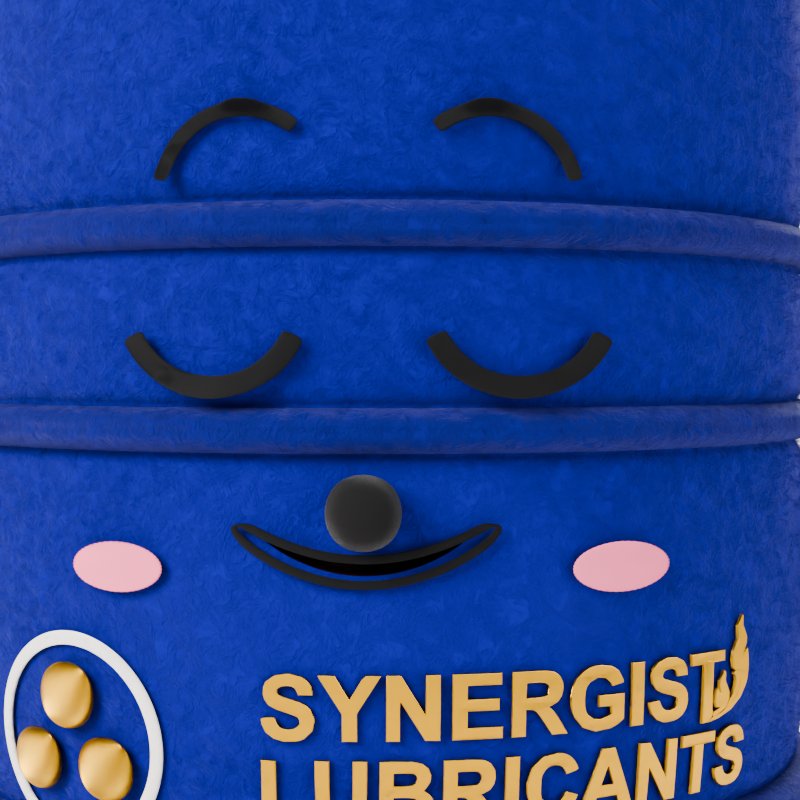
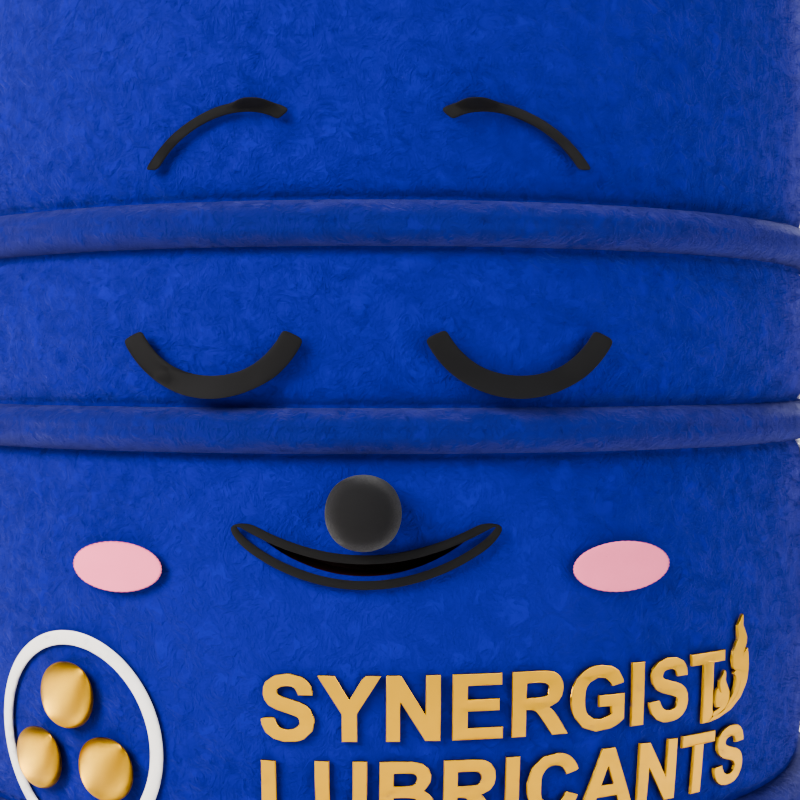
Sticker-ready poses and face fixes
Rig: place_ik_hand() puts a hand anywhere in world space through IK with
its rest orientation turned about a hand axis; new per-finger sideways
bend (side_<finger>.L/R, about the palm normal). Thumbs-up is a clear fist
with an upright thumb held out at shoulder height (hand 1.35x); OK sign has
the palm to camera and index/thumb bending toward each other so the circle
faces the camera; the resting hand comes out from behind the body; jump
uses short, high brows. Sticker camera: near-front (~10 deg toward the
waving side), whole character in frame.
Face: brow_short control; sad brows flatten into an inner-up tilt; big
smile corners clear the eye outlines; Big laugh uses short high brows.
Expressions sheet + per-face PNGs and pose renders regenerated.

Changed region(s): [[0.5312, 0.125, 0.75, 0.25], [0.1875, 0.125, 0.375, 0.25]]

diff --git a/scripts/05_rig.py b/scripts/05_rig.py
@@ -546,13 +546,19 @@ def add_constraints_and_drivers(rig):
                        [{'name': f'curl_{finger}.{side}', 'type': 'SINGLE_PROP',
                          'targets': [{'id_type': 'OBJECT', 'id': rig, 'data_path': f'["curl_{finger}.{side}"]'}]}],
                        target_object=rig)
-            # Spread driver only on first bone
-            if finger != "thumb":
-                add_driver(bone1, "rotation_euler", 2,
-                           f'spread.{side} * radians({spread_angle})',
-                           [{'name': f'spread.{side}', 'type': 'SINGLE_PROP',
-                             'targets': [{'id_type': 'OBJECT', 'id': rig, 'data_path': f'["spread.{side}"]'}]}],
-                           target_object=rig)
+            # Spread + sideways bend on the first bone, sideways bend on the second.
+            # Bone Z = palm normal: negative side bends the finger toward the thumb (+X of the hand).
+            rig[f"side_{finger}.{side}"] = 0.0
+            rig.id_properties_ui(f"side_{finger}.{side}").update(min=-1.0, max=1.0, soft_min=-1.0, soft_max=1.0)
+            side_var = {'name': f'side_{finger}.{side}', 'type': 'SINGLE_PROP',
+                        'targets': [{'id_type': 'OBJECT', 'id': rig, 'data_path': f'["side_{finger}.{side}"]'}]}
+            spread_var = {'name': f'spread.{side}', 'type': 'SINGLE_PROP',
+                          'targets': [{'id_type': 'OBJECT', 'id': rig, 'data_path': f'["spread.{side}"]'}]}
+            add_driver(bone1, "rotation_euler", 2,
+                       f'spread.{side} * radians({spread_angle}) + side_{finger}.{side} * radians(55)',
+                       [spread_var, side_var], target_object=rig)
+            add_driver(bone2, "rotation_euler", 2,
+                       f'side_{finger}.{side} * radians(75)', [side_var], target_object=rig)
 
     # --- Hand poses data ---
     # HAND_POSES defined later; no need here
@@ -858,10 +864,10 @@ HAND_POSES = {
         "thumb": (0.0, 0.0),  # thumb curl, spread not used for thumb
     },
     "ok_sign": {
-        "index": (0.75, 0.3),
+        "index": (0.85, 0.3),
         "middle": (0.05, 0.3),
         "ring": (0.1, 0.3),
-        "thumb": (0.65, 0.0),
+        "thumb": (0.75, 0.0),
     },
     "thumbs_up": {
         "index": (1.0, 0.0),
@@ -917,7 +923,7 @@ def reset_pose():
             rig[prop] = 0.0
         elif prop.startswith("curl"):
             rig[prop] = 0.0
-        elif prop.startswith("spread"):
+        elif prop.startswith("spread") or prop.startswith("side_"):
             rig[prop] = 0.0
         elif prop == "use_eye_target":
             rig[prop] = 0.0
@@ -936,6 +942,34 @@ def reset_pose():
     # Force update
     bpy.context.view_layer.update()
 
+SHOULDER_Z = model02.SHOULDER_Z
+HIP_Z = model02.HIP_Z
+
+
+def place_ik_hand(rig, side, pos, local_axis=None, angle_deg=0.0, hand_scale=1.0):
+    """Switch the arm to IK and put the hand at `pos` (world) with the hand's REST orientation,
+    optionally turned by angle_deg about one of the hand bone's own axes (local_axis, e.g. (0, 0, 1)
+    = palm normal, (0, 1, 0) = along the fingers). The hand copies IK_hand's rotation in IK mode."""
+    rig[f"ik_fk.{side}"] = 1.0
+    rest = rig.data.bones[f"hand.{side}"].matrix_local.copy()
+    rot = rest.to_3x3()
+    if local_axis is not None and angle_deg:
+        axis = (rot @ Vector(local_axis)).normalized()
+        rot = Matrix.Rotation(math.radians(angle_deg), 3, axis) @ rot
+    m = rot.to_4x4()
+    m.translation = Vector(pos)
+    bpy.context.view_layer.update()
+    rig.pose.bones[f"IK_hand.{side}"].matrix = m
+    if hand_scale != 1.0:
+        rig.pose.bones[f"hand.{side}"].scale = (hand_scale,) * 3
+    bpy.context.view_layer.update()
+
+
+def rest_arm_visible(rig, root_z=0.0):
+    """Sticker poses: bring the resting left hand out from behind the body."""
+    place_ik_hand(rig, "L", (0.72, -0.2, HIP_Z + 0.06 + root_z))
+
+
 def set_bone_world_location(rig, bone_name, world_pos):
     """Move a pose bone so its head sits at world_pos (armature at the origin, so armature space = world)."""
     pb = rig.pose.bones[bone_name]
@@ -945,6 +979,10 @@ def set_bone_world_location(rig, bone_name, world_pos):
     pb.matrix = m
 
 
+OK_TWIST_DEG = 90.0
+THUMB_TURN_DEG = 55.0  # tuned by close-up renders: 90 tilts the thumb ~40 deg outward, 125 lays it flat
+
+
 def set_pose(name):
     """Apply a test pose by name."""
     rig = bpy.data.objects["Mascot_Rig"]
@@ -952,26 +990,30 @@ def set_pose(name):
     if name == "wave":
         apply_hand_pose("R", "open_wave")
         rig["lean_side"] = 0.15
+        rest_arm_visible(rig)
         face_ctrl = bpy.data.objects.get("Face_Ctrl")
         face_ctrl["m_big_smile"] = 0.8
         face_ctrl["brow_raise_L"] = 0.4
         face_ctrl["brow_raise_R"] = 0.4
     elif name == "thumbs_up":
         apply_hand_pose("R", "thumbs_up")
-        # turn the hand 90 deg about the palm normal (bone Z): the thumb, which points toward the body
-        # (+X) in the wave pose, then points up and the curled fingers point outward
-        hand_r = rig.pose.bones["hand.R"]
-        hand_r.rotation_mode = 'XYZ'
-        hand_r.rotation_euler[2] = math.radians(90)
-        # Rotate forearm.R forward-up
-        forearm = rig.pose.bones["forearm.R"]
-        forearm.rotation_mode = 'XYZ'
-        forearm.rotation_euler[0] = math.radians(35)  # +35 brings the hand forward (-35 swung it behind the arm)
+        # fist held out at shoulder height; turning 90 deg about the palm normal makes the thumb
+        # (which points toward the body in the wave pose) point straight up, palm toward the camera
+        place_ik_hand(rig, "R", (-0.9, -0.28, SHOULDER_Z + 0.12), (0, 0, 1), THUMB_TURN_DEG, hand_scale=1.35)
+        rest_arm_visible(rig)
         face_ctrl = bpy.data.objects.get("Face_Ctrl")
         face_ctrl["m_smirk_L"] = 0.9
         face_ctrl["blink_L"] = 1.0
     elif name == "ok_sign":
         apply_hand_pose("R", "ok_sign")
+        # palm toward the camera; index and thumb bend toward each other in the palm plane so the
+        # circle faces the camera (the curl axis only bends toward the palm, i.e. edge-on)
+        rig["side_index.R"] = -1.0
+        rig["side_thumb.R"] = -1.0  # negative bends the thumb up toward the index (checked in close-up renders)
+        rig["curl_index.R"] = 0.15
+        rig["curl_thumb.R"] = 0.1
+        place_ik_hand(rig, "R", (-0.88, -0.28, SHOULDER_Z + 0.22), hand_scale=1.35)
+        rest_arm_visible(rig)
         face_ctrl = bpy.data.objects.get("Face_Ctrl")
         face_ctrl["closed_smile"] = 1.0
         face_ctrl["m_small_smile"] = 1.0
@@ -993,6 +1035,9 @@ def set_pose(name):
         face_ctrl["m_laugh"] = 1.0
         face_ctrl["happy_L"] = 1.0
         face_ctrl["happy_R"] = 1.0
+        face_ctrl["brow_raise_L"] = 1.0
+        face_ctrl["brow_raise_R"] = 1.0
+        face_ctrl["brow_short"] = 1.0
     bpy.context.view_layer.update()
 
 # ----------------------------------------------------------------
@@ -1008,11 +1053,12 @@ def render_pose(name, args):
         if c.type == 'TRACK_TO':
             c.target = look_target
     if name == "jump":
-        look_target.location = (0, 0, 1.3)
+        look_target.location = (0, 0, 1.35)
     else:
-        look_target.location = (0, 0, 1.0)
-    cam.location = (-2.2, -5.2, 1.35)  # front three-quarter on the waving side, face stays readable
-    cam.data.lens = 55
+        look_target.location = (-0.08, 0, 1.05)
+    # sticker camera: mostly front, body turned ~10 deg toward the waving side, whole character in frame
+    cam.location = (-1.05, -5.9, 1.3)
+    cam.data.lens = 50
     bpy.context.scene.render.resolution_x = args.res
     bpy.context.scene.render.resolution_y = args.res
     bpy.context.scene.render.resolution_percentage = 100

diff --git a/scripts/04_face.py b/scripts/04_face.py
@@ -99,6 +99,7 @@ CONTROLS = {
     "brow_raise_L": (0.0, 0.0, 1.0), "brow_raise_R": (0.0, 0.0, 1.0),
     "brow_lower": (0.0, 0.0, 1.0), "brow_angry": (0.0, 0.0, 1.0), "brow_sad": (0.0, 0.0, 1.0),
     "brow_furrow": (0.0, 0.0, 1.0),
+    "brow_short": (0.0, 0.0, 1.0),                                 # shorter, flatter brows
     "lid_flat": (0.0, 0.0, 1.0),                                   # flat-top half lids (annoyed)
     # mouth shapes
     "m_small_smile": (0.0, 0.0, 1.0), "m_big_smile": (0.0, 0.0, 1.0), "m_laugh": (0.0, 0.0, 1.0),
@@ -406,6 +407,9 @@ def build_eyes():
         # Furrow / scrunch: pulled toward the nose, lowered and flattened
         furrow_fn = lambda co: Vector((co.x - inner_sign * -0.022, co.y, pz - 0.015 + (co.z - pz) * 0.6))
         add_shape_key(brow, "Furrow", furrow_fn)
+        # Short: shorter and flatter, so raised brows do not repeat the happy eye arcs
+        add_shape_key(brow, "Short", xz_scale(px, pz, 0.7, 0.5))
+        drive_key(brow, "Short", "brow_short", ["brow_short"])
         drive_key(brow, "Furrow", "brow_furrow", ["brow_furrow"])
 
         # --- Hide open eye when replaced by arcs/props ---
@@ -1128,7 +1132,7 @@ PRESETS = {}  # filled by the presets section: name -> {control: value}
 PRESETS.update({
     "Happy": dict(m_big_smile=0.85, m_teeth=0.3, eye_wide=0.15, brow_raise_L=0.45, brow_raise_R=0.45, cheek_puff=0.3),
     "Big laugh": dict(m_laugh=1.0, m_teeth=0.6, m_tongue_out=0.25, happy_L=1, happy_R=1,
-                      brow_raise_L=0.6, brow_raise_R=0.6, cheek_puff=0.5),
+                      brow_raise_L=1.0, brow_raise_R=1.0, brow_short=1.0, cheek_puff=0.5),
     "Wink": dict(blink_L=1.0, m_smirk_L=1.0, brow_raise_R=0.6, brow_lower=0.2, look_x=0.4),
     "Grateful": dict(closed_smile=1, m_small_smile=1.0, brow_sad=0.5, blush=1, cheek_puff=0.3),
     "Excited": dict(prop_stars=1, m_laugh=0.9, m_teeth=0.5, brow_raise_L=0.9, brow_raise_R=0.9),
